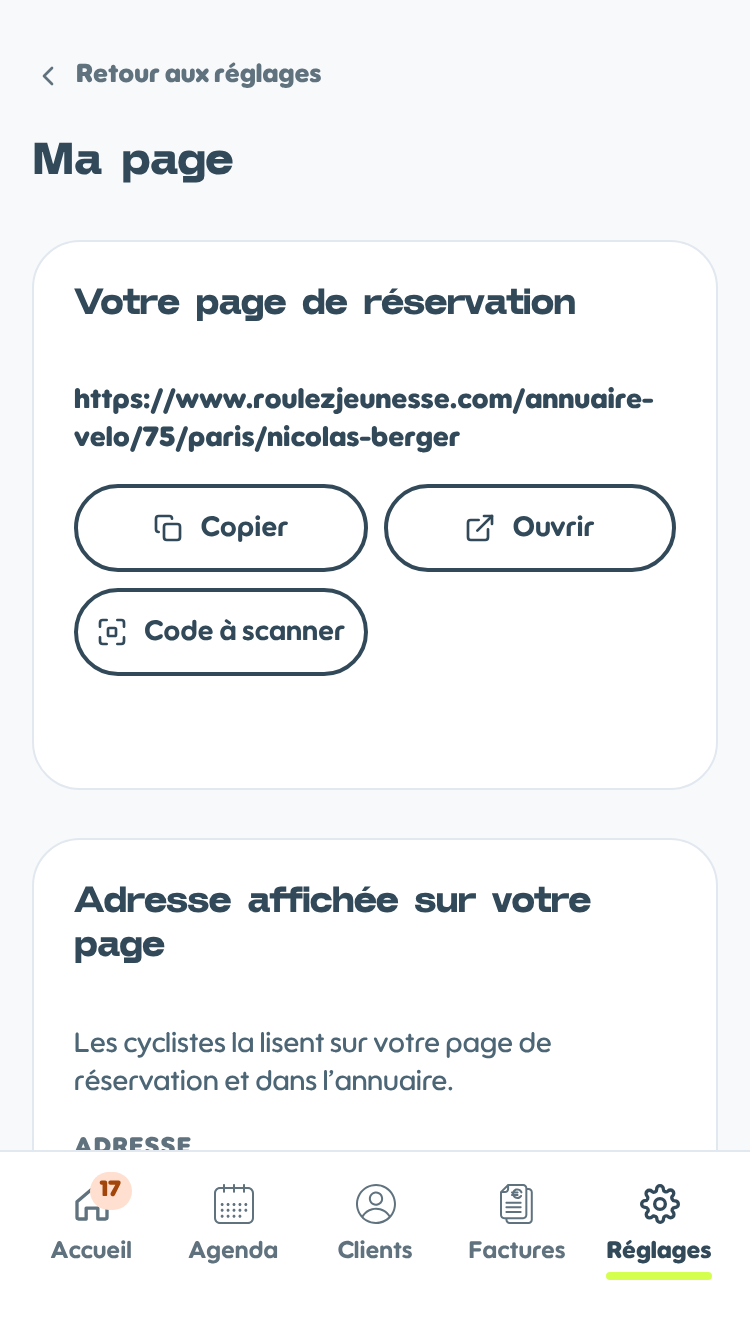
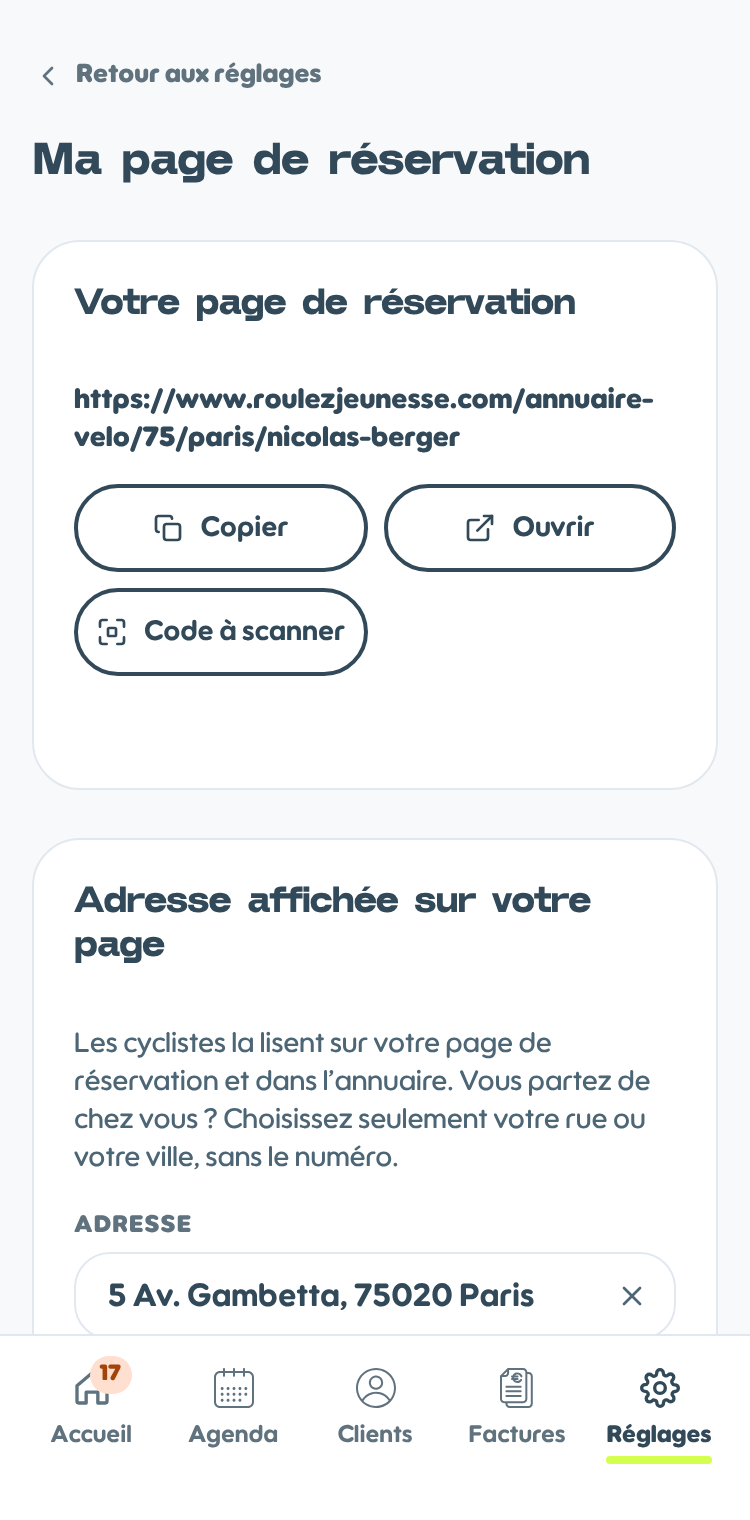
FAQ : la rubrique s'appelle Ma page de réservation, nouvelle capture
Claude-Session: https://claude.ai/code/session_01VcFpNqbR8fcsixhiwE2qii

diff --git a/questions/lien-page-de-reservation.md b/questions/lien-page-de-reservation.md
@@ -4,8 +4,8 @@ categorie: reservation
 ordre: 2
 mots: lien, partager, copier, qr, code, page, site, réservation en ligne, adresse
 ---
-Il est tout en haut de **Ma page**, dans **Réglages**. Appuyez sur **Copier** pour le coller dans un message, sur **Partager** si votre téléphone le propose, ou sur **Ouvrir** pour l’ouvrir. Ces mêmes boutons sont aussi sur l’**Accueil**, dans la case **Réservation en ligne**. **Code à scanner** affiche un code que vos clients peuvent scanner avec leur téléphone.
+Il est tout en haut de **Ma page de réservation**, dans **Réglages**. Appuyez sur **Copier** pour le coller dans un message, sur **Partager** si votre téléphone le propose, ou sur **Ouvrir** pour l’ouvrir. Ces mêmes boutons sont aussi sur l’**Accueil**, dans la case **Réservation en ligne**. **Code à scanner** affiche un code que vos clients peuvent scanner avec leur téléphone.
 
 Si l’écran dit que votre page n’est pas encore en ligne, c’est que Roulez Jeunesse la publie avec votre fiche. Si elle tarde, utilisez **Envoyer une demande** en bas de cette page.
 
-![Le haut de Ma page : le lien de la page de réservation avec les boutons Copier, Ouvrir et Code à scanner, puis l’adresse affichée](images/ma-page-lien-reservation.png)
+![Le haut de Ma page de réservation : le lien de la page avec les boutons Copier, Ouvrir et Code à scanner, puis l’adresse affichée](images/ma-page-lien-reservation.png)
